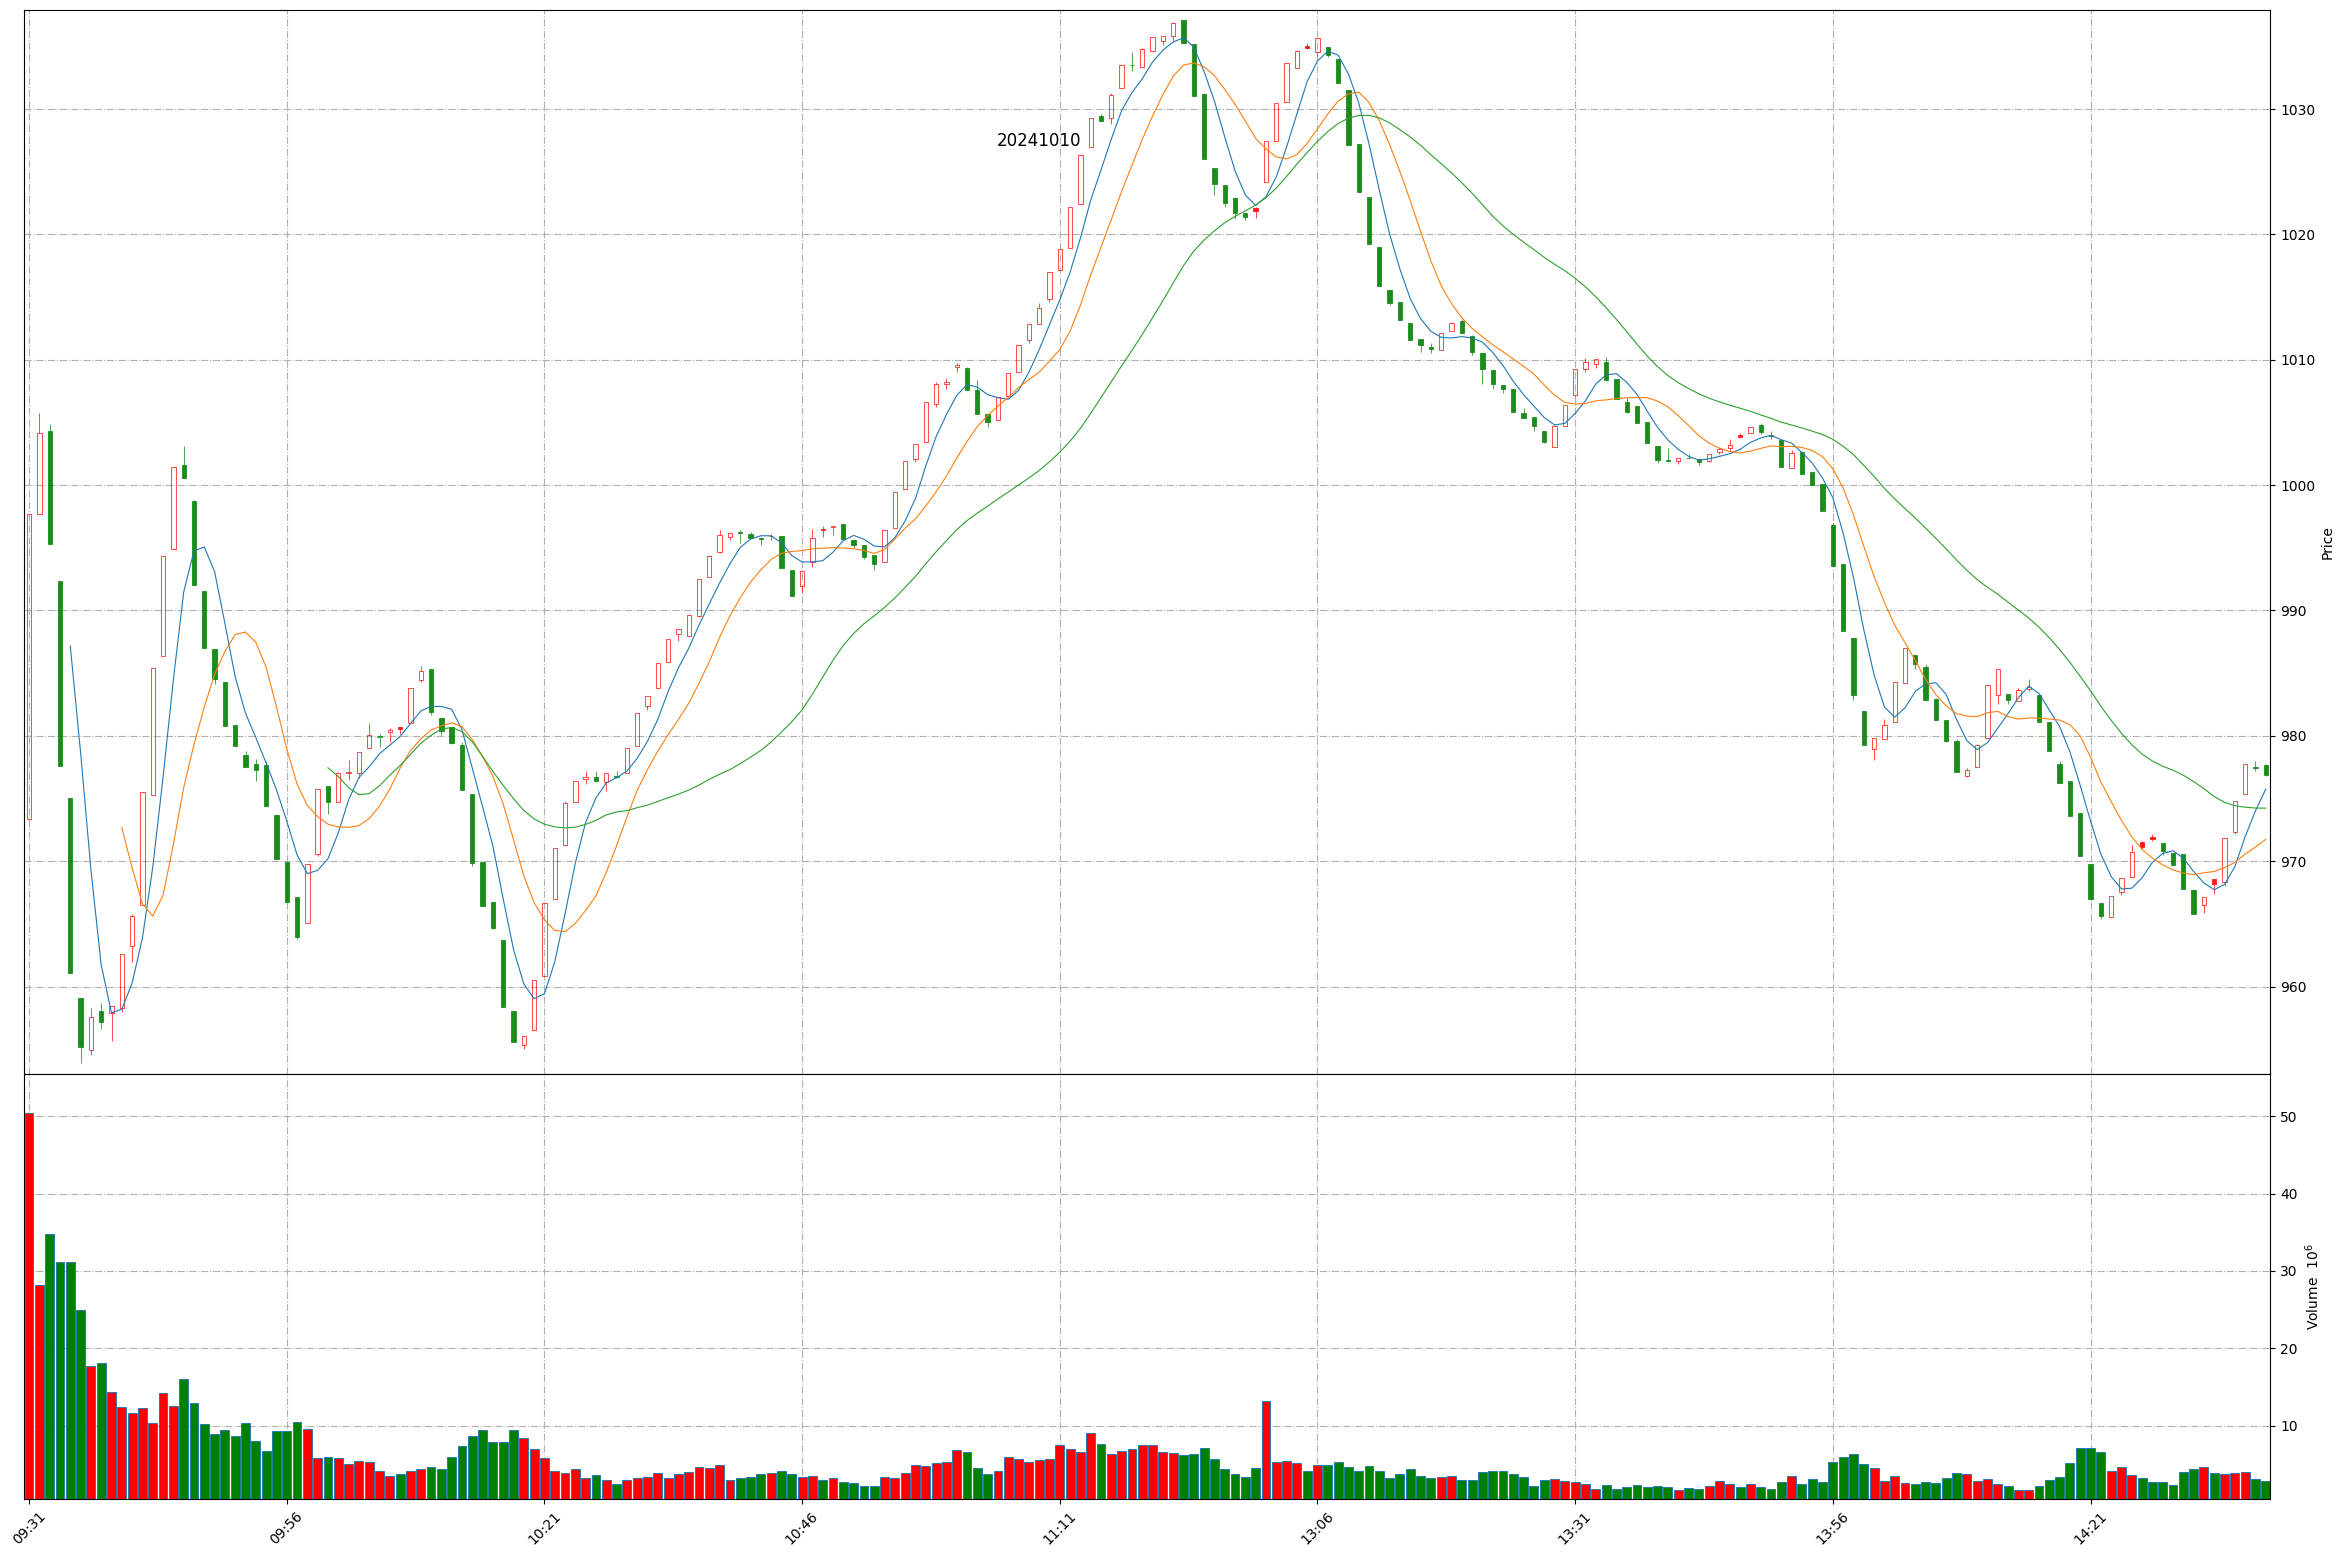
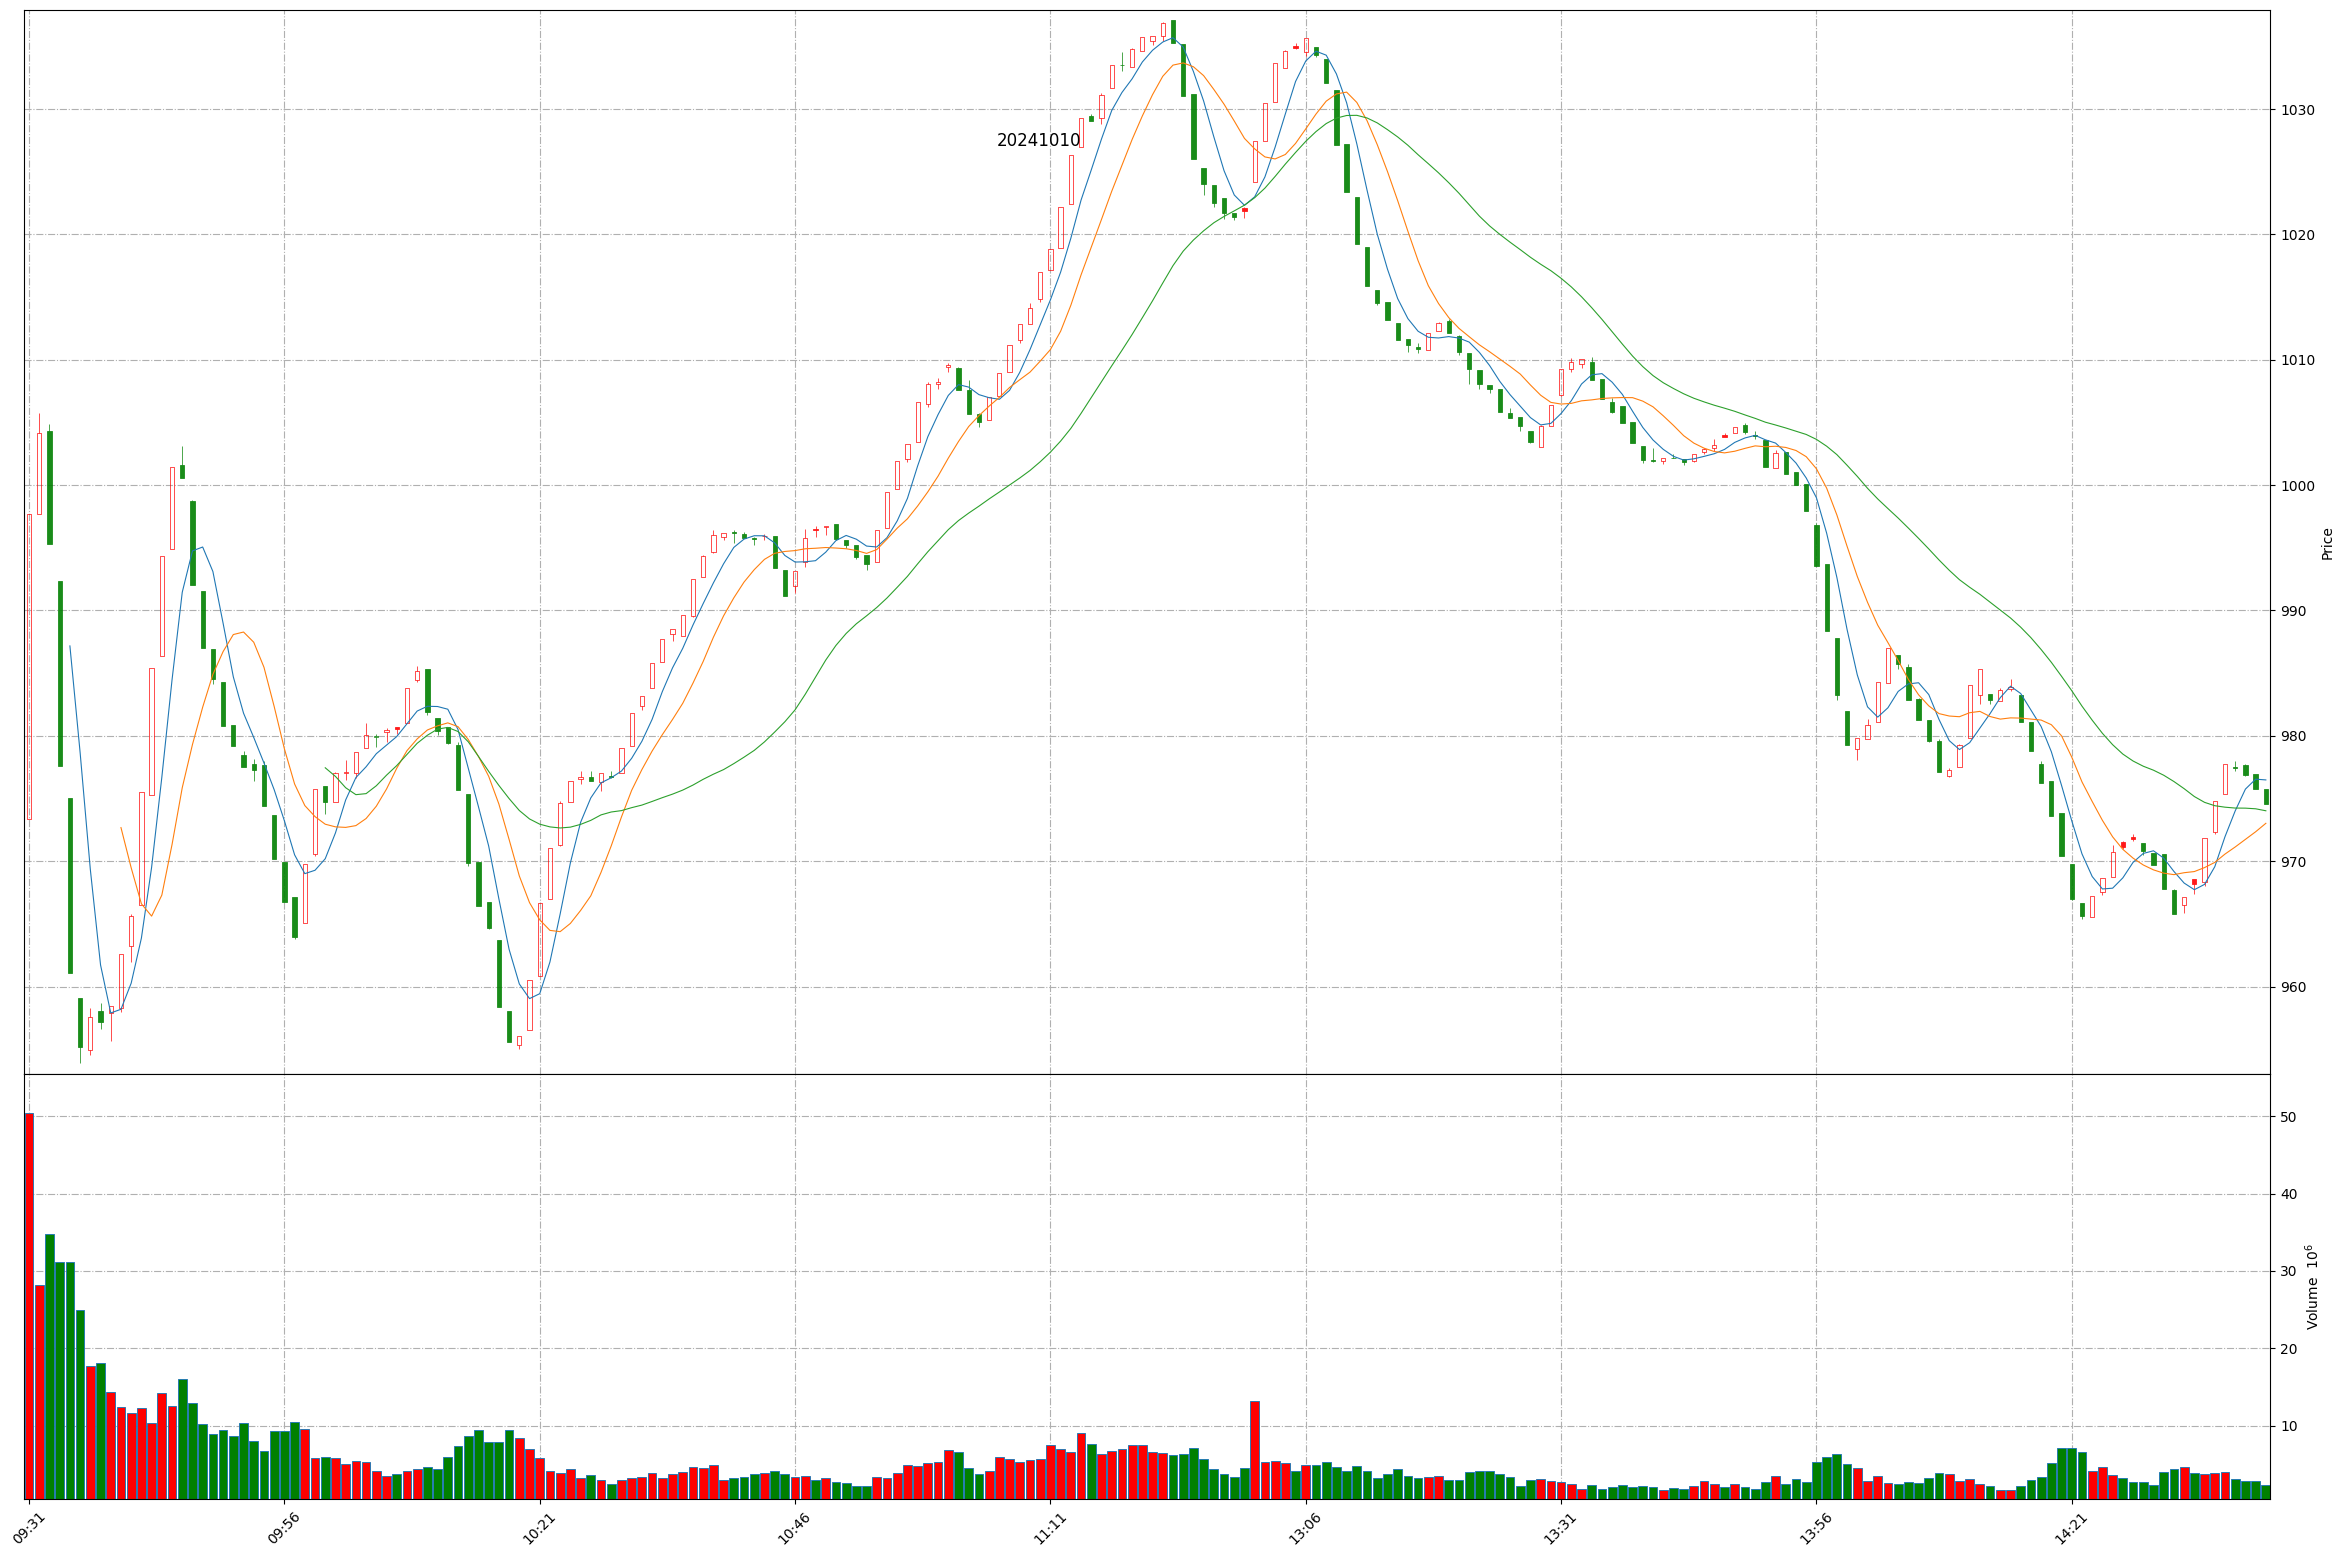
Github action update at 2024-10-10 14:40:05.

diff --git a/README.md b/README.md
@@ -1,11 +1,11 @@
 
 # Daily-A-share-market-quotes 每日 A 股指数（5min 更新）- 20241010
 
-### 上证指数 20241010 14:38
+### 上证指数 20241010 14:40
 ![](./fig/2024/10/20241010-sh000001.png)
 
-### 深证成指 20241010 14:38
+### 深证成指 20241010 14:40
 ![](./fig/2024/10/20241010-sz399001.png)
 
-### 北证50 20241010 14:38
+### 北证50 20241010 14:40
 ![](./fig/2024/10/20241010-bj899050.png)
